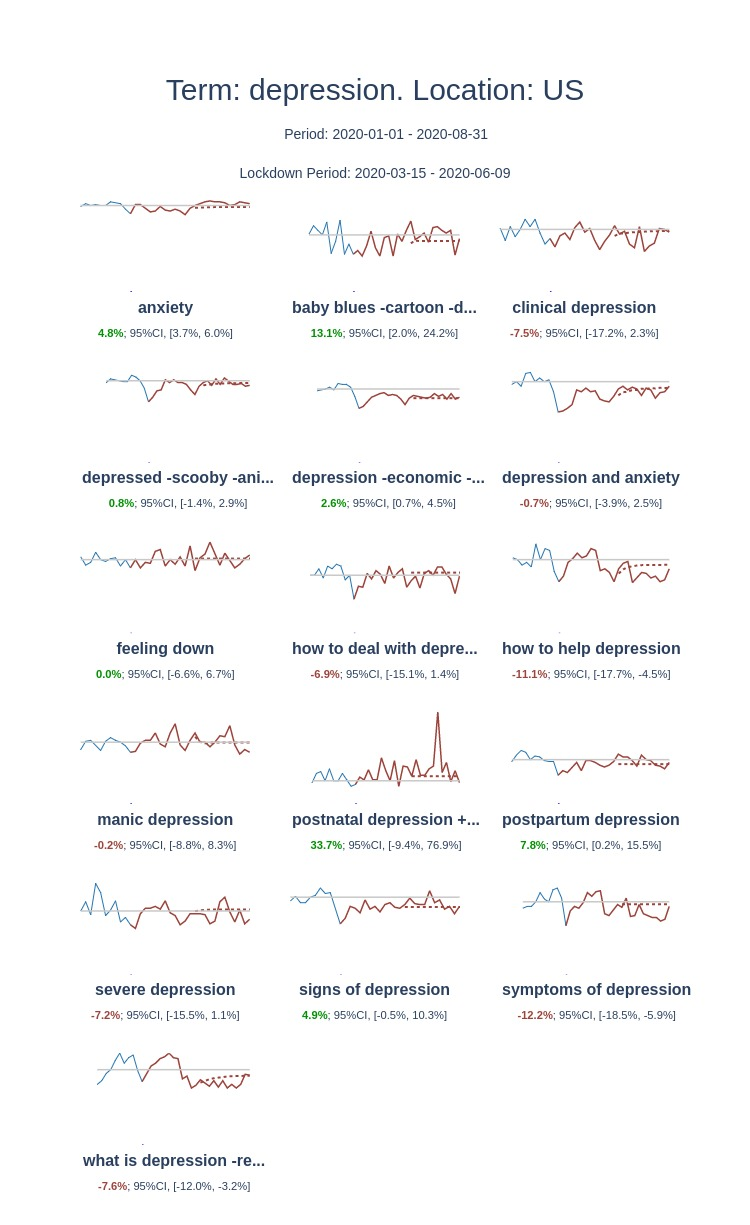
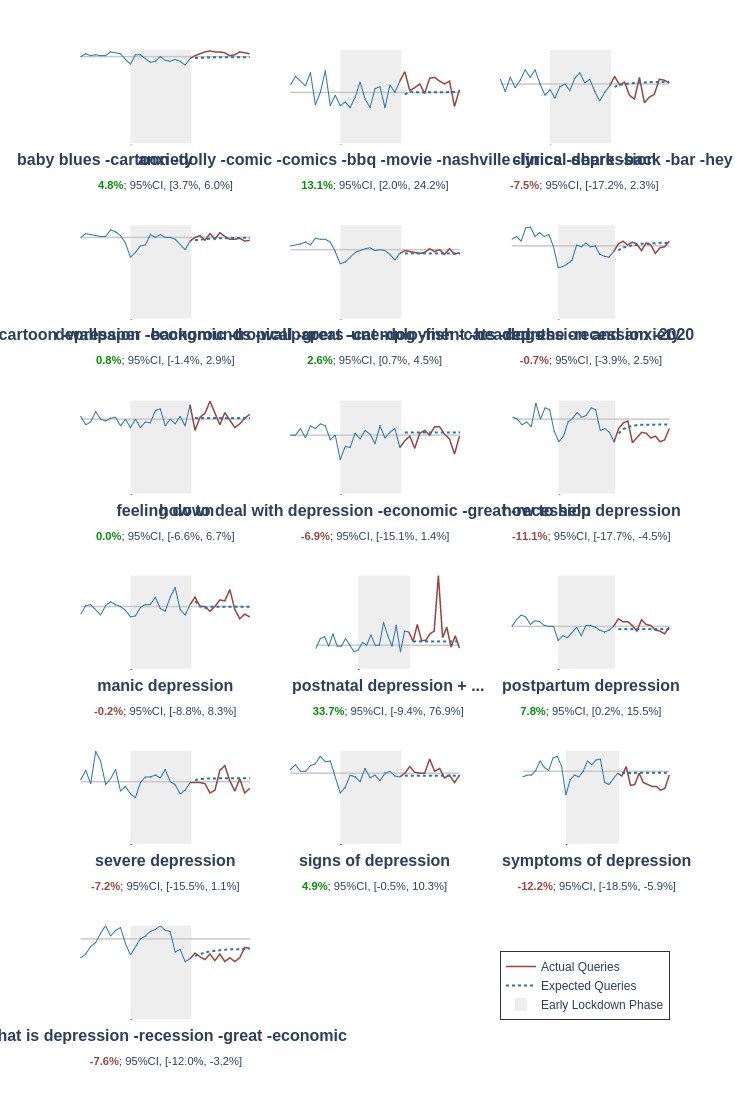
Update Plotly

diff --git a/scripts/trends/plot.py b/scripts/trends/plot.py
@@ -1,7 +1,9 @@
 import config
 import pandas as pd
+import chart_studio
 from plotly.subplots import make_subplots
 import plotly.graph_objects as go
+import chart_studio.plotly as py
 from datetime import datetime
 
 from scripts.trends import get_data_filename, get_group_queries
@@ -11,6 +13,7 @@ from utils.io import mkdir_if_not_exist
 # COVID_START_DATE = "2020-01-11"
 COVID_START_DATE = "2020-03-15" # "2020-01-12"
 REOPEN_DATE = "2020-06-09"
+REOPEN_DATE_MINUS_1 = "2020-06-07"
 
 DATA_START_DATE = "2020-01-01"
 DATA_END_DATE = "2020-08-31"
@@ -46,6 +49,8 @@ def plot_trends(group, country="US", state=None, place=None, predictive_method="
 
     # Marked Dates
     covid_start_date = COVID_START_DATE
+    reopen_date = REOPEN_DATE
+    reopen_date_minus_1 = REOPEN_DATE_MINUS_1
     data_start_date = DATA_START_DATE
     data_end_date = DATA_END_DATE
 
@@ -59,6 +64,7 @@ def plot_trends(group, country="US", state=None, place=None, predictive_method="
     for idx, query in enumerate(group_queries):
         row = int(idx / n_cols) + 1
         col = idx % n_cols + 1
+        showlegend = idx == 0
 
         query_file_path = get_data_filename(group, query, country=country, state=state, full=True)
         df = pd.read_csv(query_file_path, parse_dates=True)
@@ -81,8 +87,8 @@ def plot_trends(group, country="US", state=None, place=None, predictive_method="
         stayhome_order_date = place.get("ClosedFrom") if place else SOCIAL_DISTANCE_ORDER_DATE
 
         df = df[(df["date"] >= data_start_date) & (df["date"] <= data_end_date)]
-        df_before = df[(df["date"] <= covid_start_date)]
-        df_after = df[(df["date"] >= covid_start_date)]
+        df_before = df[(df["date"] <= reopen_date)]
+        df_after = df[(df["date"] >= reopen_date_minus_1)]
         df_prediction = df[df["is_predicted"] == 1]
 
         # Normalize
@@ -102,7 +108,7 @@ def plot_trends(group, country="US", state=None, place=None, predictive_method="
             df_after["value"] = df_after[query]
 
         # Compute difference
-        query_text = "%s..." % query[:22] if len(query) > 22 else query
+        query_text = query.split("+")[0].strip() + " + ..." if "+" in query else query
         actual_mean, actual_meanCI95min, actual_meanCI95max = mean_confidence_interval(df_prediction[query])
         predict_mean = df_prediction["prediction"].mean()
         diff = round(100 * (actual_mean - predict_mean) / predict_mean, 1)
@@ -121,9 +127,17 @@ def plot_trends(group, country="US", state=None, place=None, predictive_method="
         )
         annotations.append(diff_annot)
 
+        # Lockdown period
+        max_y = max(df[query].max(), abs(df[query].min()))
+        min_y = -max_y
+        shape_lockdown = go.layout.Shape(**{"type": "rect","y0":100,"y1": -100,"x0":COVID_START_DATE, 
+                    "x1":REOPEN_DATE,"xref":"x1","yref":"y1","layer":"below",
+                    "fillcolor":"#eeeeee", "line":dict(width=0), "line_width": 0})
+        fig.add_shape(shape_lockdown, row=row, col=col)
+
         # Horizontal line 
         shape = go.layout.Shape(**{"type": "line","y0":baseline,"y1": baseline,"x0":str(df["date"].values[0]), 
-                    "x1":str(df["date"].values[-1]),"xref":"x1","yref":"y1",
+                    "x1":str(df["date"].values[-1]),"xref":"x1","yref":"y1","layer":"below",
                     "line": {"color": "rgb(200, 200, 200)","width": 1.5}})
         fig.add_shape(shape, row=row, col=col)
 
@@ -136,20 +150,26 @@ def plot_trends(group, country="US", state=None, place=None, predictive_method="
 
         # Plot
         subplot_before = go.Scatter(x=df_before["date"], y=df_before["value"], 
-                            mode="lines",
+                            mode="lines", name="Before Lockdown",
                             line=dict(width=1, color=config.LINE_COLOR_BEFORE), 
-                            line_shape="linear") # linear or spline 
+                            line_shape="linear", showlegend=False) # linear or spline 
         subplot_after = go.Scatter(x=df_after["date"], y=df_after["value"], 
-                            mode="lines",
+                            mode="lines", name="Actual Queries",
                             line=dict(width=1.5, color=config.LINE_COLOR_AFTER), 
-                            line_shape="linear") # linear or spline 
+                            line_shape="linear", showlegend=showlegend) # linear or spline 
         subplot_prediction = go.Scatter(x=df_prediction["date"], y=df_prediction["prediction"], 
-                            mode="lines",
-                            line=dict(width=2, color=config.LINE_COLOR_AFTER, dash="dot"), 
-                            line_shape="linear") # linear or spline 
+                            mode="lines", name="Expected Queries",
+                            line=dict(width=2, color=config.LINE_COLOR_BEFORE, dash="dot"), 
+                            line_shape="linear", showlegend=showlegend) # linear or spline 
+        subplot_lockdown_legend = go.Bar(x=[reopen_date,], y=[0,], 
+                            name="Early Lockdown Phase", 
+                            showlegend=showlegend,
+                            marker_color="#eeeeee")
         fig.add_trace(subplot_before, row=row, col=col)
         fig.add_trace(subplot_after, row=row, col=col)
         fig.add_trace(subplot_prediction, row=row, col=col)
+        if idx == 0:
+            fig.add_trace(subplot_lockdown_legend, row=row, col=col)
 
         # break
 
@@ -165,24 +185,40 @@ def plot_trends(group, country="US", state=None, place=None, predictive_method="
     # )
 
     # Layout
-    location = f"{country}.{state}" if state else country
-    fig_title = f"""Term: {group}. Location: {location}<br>
-    <span style="font-size: 14px;line-height:1">Period: {data_start_date} - {data_end_date}
-    <br>Lockdown Period: {covid_start_date} - {PREDICT_FROM_DATE}</span>"""
+    # location = f"{country}.{state}" if state else country
+    # fig_title = f"""Term: {group}. Location: {location}<br>
+    # <span style="font-size: 14px;line-height:1">Period: {data_start_date} - {data_end_date}
+    # <br>Lockdown Period: {covid_start_date} - {PREDICT_FROM_DATE}</span>"""
+    fig_title = ""
     fig.update_layout(title={"text": fig_title, "x":0.5, "xanchor": "center"}, 
                     title_font=dict(size=12),
-                    height=175 + n_rows * 175, width=250 * n_cols, coloraxis=dict(colorscale="Bluered_r"), 
-                    showlegend=False, plot_bgcolor="rgb(255,255,255)", titlefont={"size": 30},
-                    margin={"t": 200},
-                    annotations=annotations
+                    height=50 + n_rows * 175, width=250 * n_cols, coloraxis=dict(colorscale="Bluered_r"), 
+                    showlegend=True, plot_bgcolor="rgb(255,255,255)", titlefont={"size": 30},
+                    margin={"t": 50},
+                    annotations=annotations,
+                    legend=dict(
+                        orientation="v",
+                        yanchor="bottom",
+                        y=0,
+                        xanchor="right",
+                        x=1,
+                        bgcolor="white",
+                        bordercolor="#333",
+                        borderwidth=1
+                    )
                 )
     fig.update_xaxes(showgrid=False, showticklabels=False, showline=False)
-    fig.update_yaxes(showgrid=False, showticklabels=False, showline=False, range=value_range)
+    fig.update_yaxes(showgrid=False, showticklabels=False, showline=True, range=value_range)
 
     # Store model parameters
     mkdir_if_not_exist(config.TRENDS_OUTPUT_DIR)
     df_params = pd.DataFrame(model_params, columns=["Query", "Order"])
     df_params.to_csv("%s/ARIMA_orders_%s.csv" % (config.TRENDS_OUTPUT_DIR, group), index=False)
+
+    # Create online URL
+    chart_studio.tools.set_credentials_file(username=config.PLOTLY_ACCOUNT, api_key=config.PLOTLY_APIKEY)
+    url = py.iplot(fig, filename=group, file_id=group)
+    print("URL:", url)
 
     if config.TRENDS_EXPORT_FIGURES:
         # Save

diff --git a/config.py b/config.py
@@ -1,5 +1,6 @@
 import os
 from utils.places import load_places
+from typing import Dict, Tuple, List
 
 ROOT_DIR = os.getcwd()
 
@@ -63,27 +64,37 @@ TRENDS_DATA_GROUPS = {
     #     'lose appetite',
     # ],
     'suicide': [
-        # Root terms
-        'suicide -squad', 
-        'suicidal', 
-        'suicide methods + suicide method', 
-        'how to commit suicide',
-        # Tran et al. 
-        'commit suicide', 
-        'i want to die', 
-        'suicidality', 
-        'suicide attempt',     
         'suicide forum',
+        'i want to die', 
+        
+        'suicidal',     
+        'suicide methods + suicide method', 
         'suicidal ideation',
-        'suicidal thoughts',
         'suicide hotline',
         'suicide helpline',
-        'how to hang yourself',
-        'how to kill yourself -ark -minecraft -rust',
-        # Gunn et al.
-        'how to suicide',
-        'suicide prevention',
     ],
+    # 'suicide_all': [
+        # Root terms
+        # 'suicide -squad', 
+        # 'suicidal', 
+        # 'suicide methods + suicide method', 
+        # 'how to commit suicide',
+        # Tran et al. 
+        # 'commit suicide', 
+        # 'i want to die', 
+        # 'suicidality', 
+        # 'suicide attempt',     
+        # 'suicide forum',
+        # 'suicidal ideation',
+        # 'suicidal thoughts',
+        # 'suicide hotline',
+        # 'suicide helpline',
+        # 'how to hang yourself',
+        # 'how to kill yourself -ark -minecraft -rust',
+        # Gunn et al.
+        # 'how to suicide',
+        # 'suicide prevention',
+    # ],
     # 'psychosis': ['psychotic', 'psychosis', 'hallucination', 'delusion', 'paranoid', 'paranoia', 
     #             'hallucinate', 'hallucinated', 'delusional'],
     # 'violence': ['psychosis', 'violence', 'violent'],
@@ -190,3 +201,6 @@ TRENDS_DOWNLOAD_DELAY_SECONDS = 2
 TRENDS_EXPORT_FIGURES = True
 
 TRENDS_APPLY_NORMALIZATION = False
+
+PLOTLY_ACCOUNT = "magicii"
+PLOTLY_APIKEY = "p8mRTOtzfBxRIE77Bnxx"
